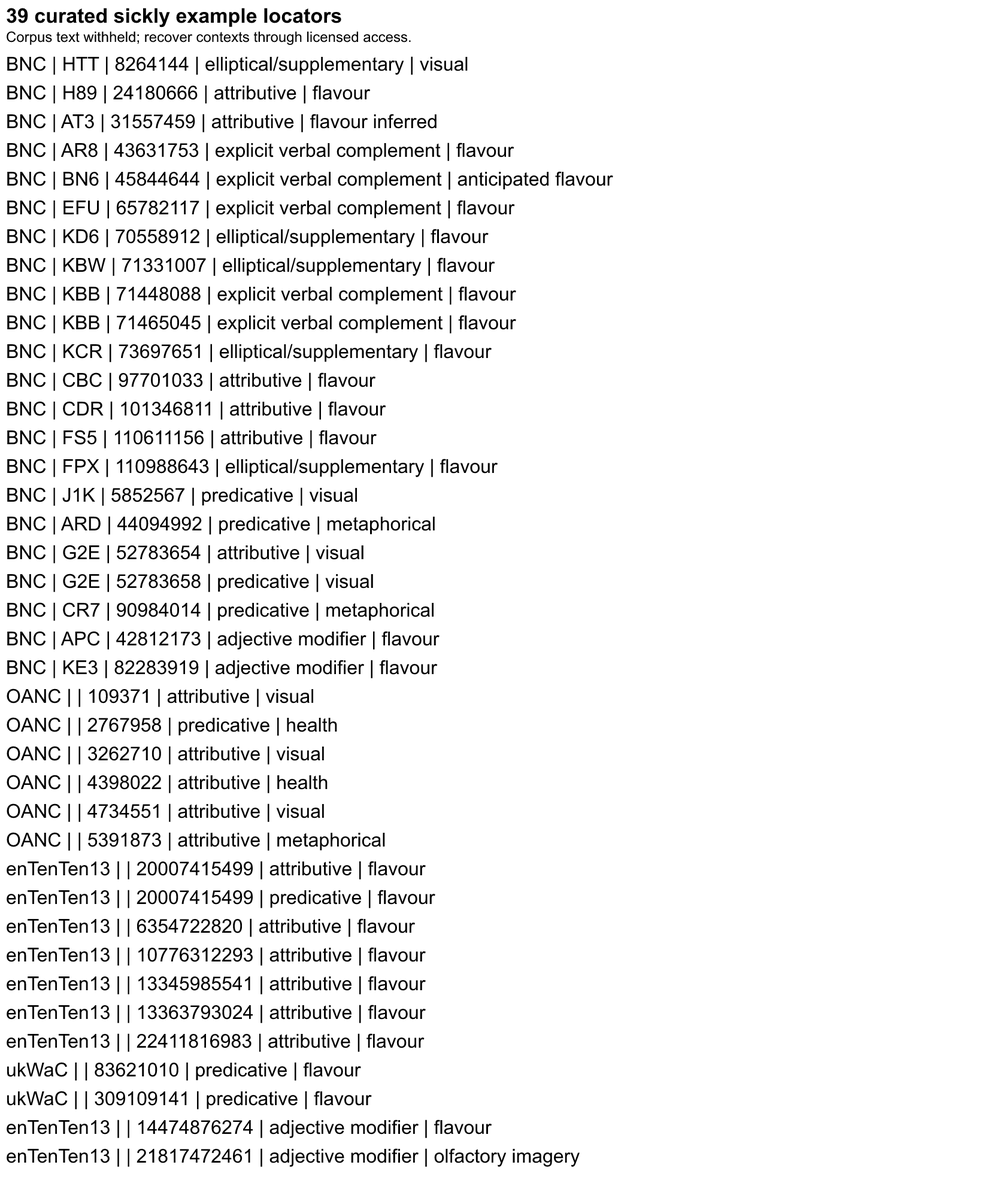
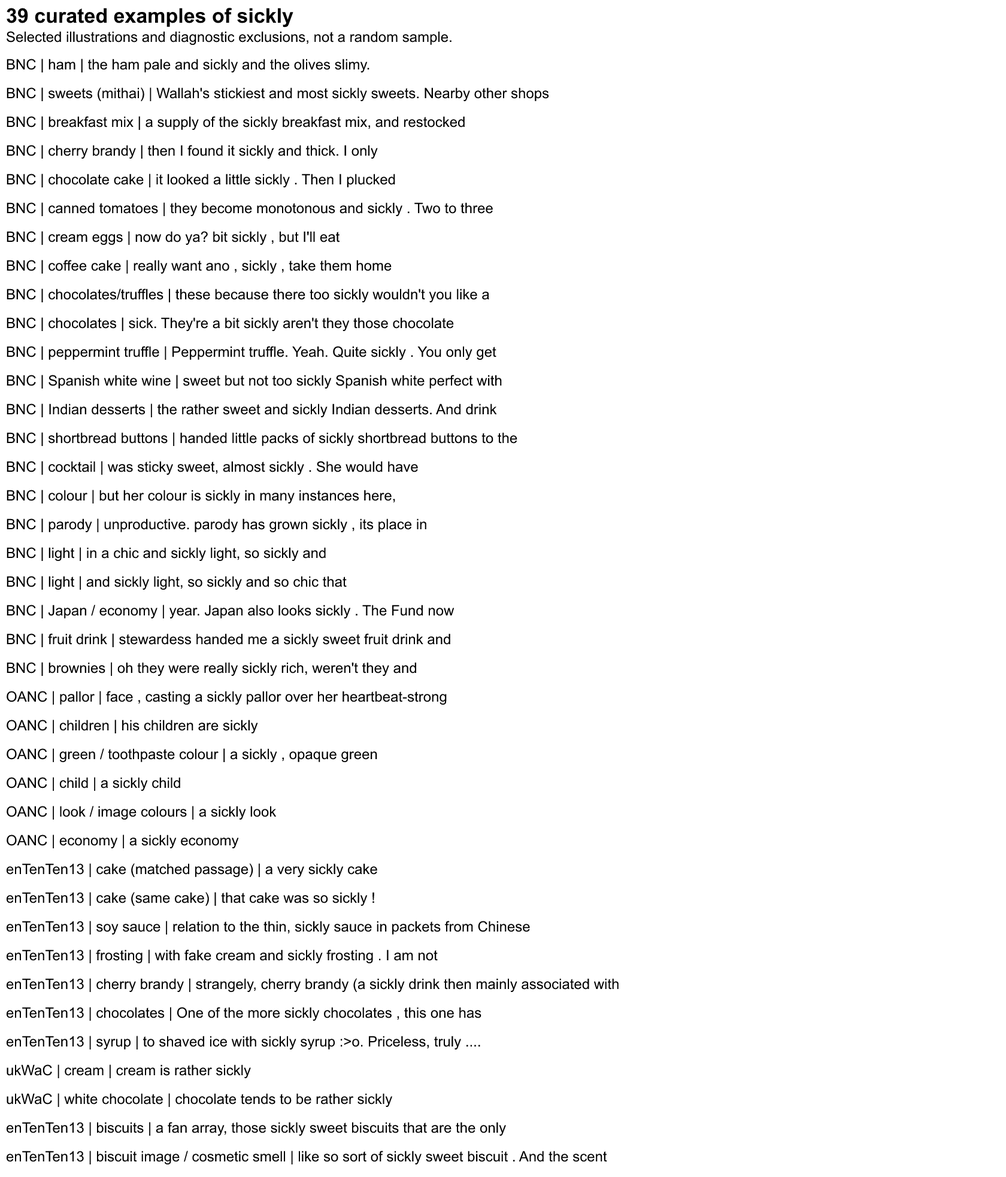
Show the curated corpus lines in the sickly snack again
Quoting concordance lines in a research report is normal practice in
linguistics (Dominik, 20 Nov 2026). Restores the 39-row KWIC table and
the quoted examples; data and method links stay on GitHub.

Changed region(s): [[0.0, 0.0, 0.5881, 0.9929], [0.5571, 0.1241, 0.5881, 0.1551]]

diff --git a/entries/2026-11-17-can-a-cake-be-sickly/charts/2-sickly-kwic.html b/entries/2026-11-17-can-a-cake-be-sickly/charts/2-sickly-kwic.html
@@ -1,66 +1,66 @@
 <div id="sickly-kwic" class="sickly-kwic">
 <style>
-.sickly-kwic{font-size:16px;color:#1d2433;color-scheme:light}.sickly-kwic table{color:inherit}.sickly-kwic a{color:#17618b}.sickly-kwic .controls{display:flex;gap:.8rem;flex-wrap:wrap;align-items:end;margin-block:1rem}
+.sickly-kwic{font-size:.85rem;color:#1d2433;color-scheme:light}.sickly-kwic table{color:inherit}.sickly-kwic a{color:#17618b}.sickly-kwic .controls{display:flex;gap:.8rem;flex-wrap:wrap;align-items:end;margin-block:1rem}
 .sickly-kwic .controls[hidden]{display:none}.sickly-kwic label{display:grid;gap:.25rem}.sickly-kwic input,.sickly-kwic select,.sickly-kwic button{font:inherit;color:inherit;background:transparent;border:1px solid #888;border-radius:4px;padding:.35rem .5rem}
-.sickly-kwic .scroll{overflow:auto;border:1px solid #888}.sickly-kwic table{margin:0;width:auto;max-width:100%}
+.sickly-kwic .scroll{max-height:28rem;overflow:auto;border:1px solid #888}.sickly-kwic table{margin:0;min-width:64rem;width:100%}
 .sickly-kwic th{position:sticky;top:0;background:Canvas;z-index:1}.sickly-kwic th button{border:0;font-weight:600;cursor:pointer}
 .sickly-kwic td{vertical-align:top}.sickly-kwic td:nth-child(5){min-width:17rem}.sickly-kwic td:last-child{max-width:20rem;overflow-wrap:anywhere}
 .sickly-kwic :focus-visible{outline:2px solid #2679a4;outline-offset:2px}.sickly-kwic tr[hidden]{display:none}
 @media print{.sickly-kwic .scroll{max-height:none;overflow:visible}.sickly-kwic table{min-width:0;font-size:.65rem}.sickly-kwic .controls{display:none}}
 </style>
 <div class="controls" hidden>
-<label>Search all columns<input type="search" id="sickly-search" placeholder="Try sole, visual or BNC"></label>
+<label>Search all columns<input type="search" id="sickly-search" placeholder="Try chocolate, sole or visual"></label>
 <label>Corpus<select id="sickly-corpus"><option value="">All corpora</option><option>BNC</option><option>OANC</option><option>enTenTen13</option><option>ukWaC</option></select></label>
 <button type="button" id="sickly-export">Export visible CSV</button>
 </div>
 <p id="sickly-count" role="status" aria-live="polite">39 of 39 examples. Select a heading to sort.</p>
-<div class="scroll" tabindex="0" role="region" aria-label="Sickly example locators">
-<table><caption>Stand-off annotations and source anchors; corpus contexts are withheld.</caption><thead><tr><th scope="col" aria-sort="none"><button type="button" data-sort="0">Corpus</button></th><th scope="col" aria-sort="none"><button type="button" data-sort="1">Document ID</button></th><th scope="col" aria-sort="none"><button type="button" data-sort="2">Token anchor</button></th><th scope="col" aria-sort="none"><button type="button" data-sort="3">Construction</button></th><th scope="col" aria-sort="none"><button type="button" data-sort="4">Coordination</button></th><th scope="col" aria-sort="none"><button type="button" data-sort="5">Reading</button></th></tr></thead><tbody><tr data-corpus="BNC"><td>BNC</td><td>HTT</td><td>8264144</td><td>elliptical/supplementary</td><td>coordinated</td><td>visual</td></tr>
-<tr data-corpus="BNC"><td>BNC</td><td>H89</td><td>24180666</td><td>attributive</td><td>coordinated</td><td>flavour</td></tr>
-<tr data-corpus="BNC"><td>BNC</td><td>AT3</td><td>31557459</td><td>attributive</td><td>sole</td><td>flavour inferred</td></tr>
-<tr data-corpus="BNC"><td>BNC</td><td>AR8</td><td>43631753</td><td>explicit verbal complement</td><td>coordinated</td><td>flavour</td></tr>
-<tr data-corpus="BNC"><td>BNC</td><td>BN6</td><td>45844644</td><td>explicit verbal complement</td><td>sole</td><td>anticipated flavour</td></tr>
-<tr data-corpus="BNC"><td>BNC</td><td>EFU</td><td>65782117</td><td>explicit verbal complement</td><td>coordinated</td><td>flavour</td></tr>
-<tr data-corpus="BNC"><td>BNC</td><td>KD6</td><td>70558912</td><td>elliptical/supplementary</td><td>sole</td><td>flavour</td></tr>
-<tr data-corpus="BNC"><td>BNC</td><td>KBW</td><td>71331007</td><td>elliptical/supplementary</td><td>sole</td><td>flavour</td></tr>
-<tr data-corpus="BNC"><td>BNC</td><td>KBB</td><td>71448088</td><td>explicit verbal complement</td><td>sole</td><td>flavour</td></tr>
-<tr data-corpus="BNC"><td>BNC</td><td>KBB</td><td>71465045</td><td>explicit verbal complement</td><td>sole</td><td>flavour</td></tr>
-<tr data-corpus="BNC"><td>BNC</td><td>KCR</td><td>73697651</td><td>elliptical/supplementary</td><td>sole</td><td>flavour</td></tr>
-<tr data-corpus="BNC"><td>BNC</td><td>CBC</td><td>97701033</td><td>attributive</td><td>coordinated</td><td>flavour</td></tr>
-<tr data-corpus="BNC"><td>BNC</td><td>CDR</td><td>101346811</td><td>attributive</td><td>coordinated</td><td>flavour</td></tr>
-<tr data-corpus="BNC"><td>BNC</td><td>FS5</td><td>110611156</td><td>attributive</td><td>sole</td><td>flavour</td></tr>
-<tr data-corpus="BNC"><td>BNC</td><td>FPX</td><td>110988643</td><td>elliptical/supplementary</td><td>sole</td><td>flavour</td></tr>
-<tr data-corpus="BNC"><td>BNC</td><td>J1K</td><td>5852567</td><td>predicative</td><td>sole</td><td>visual</td></tr>
-<tr data-corpus="BNC"><td>BNC</td><td>ARD</td><td>44094992</td><td>predicative</td><td>sole</td><td>metaphorical</td></tr>
-<tr data-corpus="BNC"><td>BNC</td><td>G2E</td><td>52783654</td><td>attributive</td><td>coordinated</td><td>visual</td></tr>
-<tr data-corpus="BNC"><td>BNC</td><td>G2E</td><td>52783658</td><td>predicative</td><td>coordinated</td><td>visual</td></tr>
-<tr data-corpus="BNC"><td>BNC</td><td>CR7</td><td>90984014</td><td>predicative</td><td>sole</td><td>metaphorical</td></tr>
-<tr data-corpus="BNC"><td>BNC</td><td>APC</td><td>42812173</td><td>adjective modifier</td><td>uncoordinated</td><td>flavour</td></tr>
-<tr data-corpus="BNC"><td>BNC</td><td>KE3</td><td>82283919</td><td>adjective modifier</td><td>uncoordinated</td><td>flavour</td></tr>
-<tr data-corpus="OANC"><td>OANC</td><td></td><td>109371</td><td>attributive</td><td>sole</td><td>visual</td></tr>
-<tr data-corpus="OANC"><td>OANC</td><td></td><td>2767958</td><td>predicative</td><td>sole</td><td>health</td></tr>
-<tr data-corpus="OANC"><td>OANC</td><td></td><td>3262710</td><td>attributive</td><td>asyndetic / juxtaposed</td><td>visual</td></tr>
-<tr data-corpus="OANC"><td>OANC</td><td></td><td>4398022</td><td>attributive</td><td>sole</td><td>health</td></tr>
-<tr data-corpus="OANC"><td>OANC</td><td></td><td>4734551</td><td>attributive</td><td>sole</td><td>visual</td></tr>
-<tr data-corpus="OANC"><td>OANC</td><td></td><td>5391873</td><td>attributive</td><td>sole</td><td>metaphorical</td></tr>
-<tr data-corpus="enTenTen13"><td>enTenTen13</td><td></td><td>20007415499</td><td>attributive</td><td>sole</td><td>flavour</td></tr>
-<tr data-corpus="enTenTen13"><td>enTenTen13</td><td></td><td>20007415499</td><td>predicative</td><td>sole</td><td>flavour</td></tr>
-<tr data-corpus="enTenTen13"><td>enTenTen13</td><td></td><td>6354722820</td><td>attributive</td><td>asyndetic / juxtaposed</td><td>flavour</td></tr>
-<tr data-corpus="enTenTen13"><td>enTenTen13</td><td></td><td>10776312293</td><td>attributive</td><td>sole</td><td>flavour</td></tr>
-<tr data-corpus="enTenTen13"><td>enTenTen13</td><td></td><td>13345985541</td><td>attributive</td><td>sole</td><td>flavour</td></tr>
-<tr data-corpus="enTenTen13"><td>enTenTen13</td><td></td><td>13363793024</td><td>attributive</td><td>sole</td><td>flavour</td></tr>
-<tr data-corpus="enTenTen13"><td>enTenTen13</td><td></td><td>22411816983</td><td>attributive</td><td>sole</td><td>flavour</td></tr>
-<tr data-corpus="ukWaC"><td>ukWaC</td><td></td><td>83621010</td><td>predicative</td><td>sole</td><td>flavour</td></tr>
-<tr data-corpus="ukWaC"><td>ukWaC</td><td></td><td>309109141</td><td>predicative</td><td>sole</td><td>flavour</td></tr>
-<tr data-corpus="enTenTen13"><td>enTenTen13</td><td></td><td>14474876274</td><td>adjective modifier</td><td>uncoordinated</td><td>flavour</td></tr>
-<tr data-corpus="enTenTen13"><td>enTenTen13</td><td></td><td>21817472461</td><td>adjective modifier</td><td>uncoordinated</td><td>olfactory imagery</td></tr></tbody></table>
+<div class="scroll" tabindex="0" role="region" aria-label="Sickly examples: scroll horizontally for context and source">
+<table><caption>Curated examples; spelling and source anchors follow the original report.</caption><thead><tr><th scope="col" aria-sort="none"><button type="button" data-sort="0">Corpus</button></th><th scope="col" aria-sort="none"><button type="button" data-sort="1">Referent</button></th><th scope="col" aria-sort="none"><button type="button" data-sort="2">Construction</button></th><th scope="col" aria-sort="none"><button type="button" data-sort="3">Coordination</button></th><th scope="col" aria-sort="none"><button type="button" data-sort="4">Context</button></th><th scope="col" aria-sort="none"><button type="button" data-sort="5">Reading</button></th><th scope="col" aria-sort="none"><button type="button" data-sort="6">Source and anchor</button></th></tr></thead><tbody><tr data-corpus="BNC"><td>BNC</td><td>ham</td><td>elliptical/supplementary</td><td>coordinated</td><td>the ham pale and <strong>sickly</strong> and the olives slimy.</td><td>visual</td><td>bncdoc.id=HTT; David Lee&#x27;s classification=W_fict_prose; bncdoc.title=Ratking.<br>Anchor: 8264144</td></tr>
+<tr data-corpus="BNC"><td>BNC</td><td>sweets (mithai)</td><td>attributive</td><td>coordinated</td><td>Wallah&#x27;s stickiest and most <strong>sickly</strong> sweets. Nearby other shops</td><td>flavour</td><td>bncdoc.id=H89; David Lee&#x27;s classification=W_misc; bncdoc.title=City of djinns.<br>Anchor: 24180666</td></tr>
+<tr data-corpus="BNC"><td>BNC</td><td>breakfast mix</td><td>attributive</td><td>sole</td><td>a supply of the <strong>sickly</strong> breakfast mix, and restocked</td><td>flavour inferred</td><td>bncdoc.id=AT3; David Lee&#x27;s classification=W_misc; bncdoc.title=Wheelbarrow across the Sahara.<br>Anchor: 31557459</td></tr>
+<tr data-corpus="BNC"><td>BNC</td><td>cherry brandy</td><td>explicit verbal complement</td><td>coordinated</td><td>then I found it <strong>sickly</strong> and thick. I only</td><td>flavour</td><td>bncdoc.id=AR8; David Lee&#x27;s classification=W_non_ac_polit_law_edu; bncdoc.title=The SAS at war 1941-1945.<br>Anchor: 43631753</td></tr>
+<tr data-corpus="BNC"><td>BNC</td><td>chocolate cake</td><td>explicit verbal complement</td><td>sole</td><td>it looked a little <strong>sickly</strong> . Then I plucked</td><td>anticipated flavour</td><td>bncdoc.id=BN6; David Lee&#x27;s classification=W_biography; bncdoc.title=Seasons of my life.<br>Anchor: 45844644</td></tr>
+<tr data-corpus="BNC"><td>BNC</td><td>canned tomatoes</td><td>explicit verbal complement</td><td>coordinated</td><td>they become monotonous and <strong>sickly</strong> . Two to three</td><td>flavour</td><td>bncdoc.id=EFU; David Lee&#x27;s classification=W_misc; bncdoc.title=An omelette and a glass of wine.<br>Anchor: 65782117</td></tr>
+<tr data-corpus="BNC"><td>BNC</td><td>cream eggs</td><td>elliptical/supplementary</td><td>sole</td><td>now do ya? bit <strong>sickly</strong> , but I&#x27;ll eat</td><td>flavour</td><td>bncdoc.id=KD6; David Lee&#x27;s classification=S_conv; bncdoc.title====NONE===<br>Anchor: 70558912</td></tr>
+<tr data-corpus="BNC"><td>BNC</td><td>coffee cake</td><td>elliptical/supplementary</td><td>sole</td><td>really want ano , <strong>sickly</strong> , take them home</td><td>flavour</td><td>bncdoc.id=KBW; David Lee&#x27;s classification=S_conv; bncdoc.title====NONE===<br>Anchor: 71331007</td></tr>
+<tr data-corpus="BNC"><td>BNC</td><td>chocolates/truffles</td><td>explicit verbal complement</td><td>sole</td><td>these because there too <strong>sickly</strong> wouldn&#x27;t you like a</td><td>flavour</td><td>bncdoc.id=KBB; David Lee&#x27;s classification=S_conv; bncdoc.title====NONE===<br>Anchor: 71448088</td></tr>
+<tr data-corpus="BNC"><td>BNC</td><td>chocolates</td><td>explicit verbal complement</td><td>sole</td><td>sick. They&#x27;re a bit <strong>sickly</strong> aren&#x27;t they those chocolate</td><td>flavour</td><td>bncdoc.id=KBB; David Lee&#x27;s classification=S_conv; bncdoc.title====NONE===<br>Anchor: 71465045</td></tr>
+<tr data-corpus="BNC"><td>BNC</td><td>peppermint truffle</td><td>elliptical/supplementary</td><td>sole</td><td>Peppermint truffle. Yeah. Quite <strong>sickly</strong> . You only get</td><td>flavour</td><td>bncdoc.id=KCR; David Lee&#x27;s classification=S_conv; bncdoc.title====NONE===<br>Anchor: 73697651</td></tr>
+<tr data-corpus="BNC"><td>BNC</td><td>Spanish white wine</td><td>attributive</td><td>coordinated</td><td>sweet but not too <strong>sickly</strong> Spanish white perfect with</td><td>flavour</td><td>bncdoc.id=CBC; David Lee&#x27;s classification=W_newsp_other_social; bncdoc.title=Today.<br>Anchor: 97701033</td></tr>
+<tr data-corpus="BNC"><td>BNC</td><td>Indian desserts</td><td>attributive</td><td>coordinated</td><td>the rather sweet and <strong>sickly</strong> Indian desserts. And drink</td><td>flavour</td><td>bncdoc.id=CDR; David Lee&#x27;s classification=W_misc; bncdoc.title=Total health and fitness.<br>Anchor: 101346811</td></tr>
+<tr data-corpus="BNC"><td>BNC</td><td>shortbread buttons</td><td>attributive</td><td>sole</td><td>handed little packs of <strong>sickly</strong> shortbread buttons to the</td><td>flavour</td><td>bncdoc.id=FS5; David Lee&#x27;s classification=W_fict_poetry; bncdoc.title=Sky ray lolly.<br>Anchor: 110611156</td></tr>
+<tr data-corpus="BNC"><td>BNC</td><td>cocktail</td><td>elliptical/supplementary</td><td>sole</td><td>was sticky sweet, almost <strong>sickly</strong> . She would have</td><td>flavour</td><td>bncdoc.id=FPX; David Lee&#x27;s classification=W_fict_prose; bncdoc.title=War in high heels.<br>Anchor: 110988643</td></tr>
+<tr data-corpus="BNC"><td>BNC</td><td>colour</td><td>predicative</td><td>sole</td><td>but her colour is <strong>sickly</strong> in many instances here,</td><td>visual</td><td>bncdoc.id=J1K; David Lee&#x27;s classification=W_misc; bncdoc.title=Women&#x27;s Art.<br>Anchor: 5852567</td></tr>
+<tr data-corpus="BNC"><td>BNC</td><td>parody</td><td>predicative</td><td>sole</td><td>unproductive. parody has grown <strong>sickly</strong> , its place in</td><td>metaphorical</td><td>bncdoc.id=ARD; David Lee&#x27;s classification=W_ac_humanities_arts; bncdoc.title=Screen.<br>Anchor: 44094992</td></tr>
+<tr data-corpus="BNC"><td>BNC</td><td>light</td><td>attributive</td><td>coordinated</td><td>in a chic and <strong>sickly</strong> light, so sickly and</td><td>visual</td><td>bncdoc.id=G2E; David Lee&#x27;s classification=W_pop_lore; bncdoc.title=Harpers &amp; Queen.<br>Anchor: 52783654</td></tr>
+<tr data-corpus="BNC"><td>BNC</td><td>light</td><td>predicative</td><td>coordinated</td><td>and sickly light, so <strong>sickly</strong> and so chic that</td><td>visual</td><td>bncdoc.id=G2E; David Lee&#x27;s classification=W_pop_lore; bncdoc.title=Harpers &amp; Queen.<br>Anchor: 52783658</td></tr>
+<tr data-corpus="BNC"><td>BNC</td><td>Japan / economy</td><td>predicative</td><td>sole</td><td>year. Japan also looks <strong>sickly</strong> . The Fund now</td><td>metaphorical</td><td>bncdoc.id=CR7; David Lee&#x27;s classification=W_pop_lore; bncdoc.title=The Economist.<br>Anchor: 90984014</td></tr>
+<tr data-corpus="BNC"><td>BNC</td><td>fruit drink</td><td>adjective modifier</td><td>uncoordinated</td><td>stewardess handed me a <strong>sickly</strong> sweet fruit drink and</td><td>flavour</td><td>bncdoc.id=APC; David Lee&#x27;s classification=W_misc; bncdoc.title=In the palace of serpents.<br>Anchor: 42812173</td></tr>
+<tr data-corpus="BNC"><td>BNC</td><td>brownies</td><td>adjective modifier</td><td>uncoordinated</td><td>oh they were really <strong>sickly</strong> rich, weren&#x27;t they and</td><td>flavour</td><td>bncdoc.id=KE3; David Lee&#x27;s classification=S_conv; bncdoc.title====NONE===<br>Anchor: 82283919</td></tr>
+<tr data-corpus="OANC"><td>OANC</td><td>pallor</td><td>attributive</td><td>sole</td><td>face , casting a <strong>sickly</strong> pallor over her heartbeat-strong</td><td>visual</td><td>Domain=fiction; Corpus=masc<br>Anchor: 109371</td></tr>
+<tr data-corpus="OANC"><td>OANC</td><td>children</td><td>predicative</td><td>sole</td><td>his children are <strong>sickly</strong> </td><td>health</td><td>Domain=journal; Corpus=oanc<br>Anchor: 2767958</td></tr>
+<tr data-corpus="OANC"><td>OANC</td><td>green / toothpaste colour</td><td>attributive</td><td>asyndetic / juxtaposed</td><td>a <strong>sickly</strong> , opaque green</td><td>visual</td><td>Domain=journal; Corpus=oanc<br>Anchor: 3262710</td></tr>
+<tr data-corpus="OANC"><td>OANC</td><td>child</td><td>attributive</td><td>sole</td><td>a <strong>sickly</strong> child</td><td>health</td><td>Domain=journal; Corpus=oanc<br>Anchor: 4398022</td></tr>
+<tr data-corpus="OANC"><td>OANC</td><td>look / image colours</td><td>attributive</td><td>sole</td><td>a <strong>sickly</strong> look</td><td>visual</td><td>Domain=journal; Corpus=oanc<br>Anchor: 4734551</td></tr>
+<tr data-corpus="OANC"><td>OANC</td><td>economy</td><td>attributive</td><td>sole</td><td>a <strong>sickly</strong> economy</td><td>metaphorical</td><td>Domain=journal; Corpus=oanc<br>Anchor: 5391873</td></tr>
+<tr data-corpus="enTenTen13"><td>enTenTen13</td><td>cake (matched passage)</td><td>attributive</td><td>sole</td><td>a very <strong>sickly cake</strong> </td><td>flavour</td><td>url=<a href="http://www.culturecompass.co.uk/2011/10/29/interview-with-oh-my/">http://www.culturecompass.co.uk/2011/10/29/interview-with-oh-my/</a><br>Anchor: 20007415499</td></tr>
+<tr data-corpus="enTenTen13"><td>enTenTen13</td><td>cake (same cake)</td><td>predicative</td><td>sole</td><td>that cake was so <strong>sickly</strong> !</td><td>flavour</td><td>url=<a href="http://www.culturecompass.co.uk/2011/10/29/interview-with-oh-my/">http://www.culturecompass.co.uk/2011/10/29/interview-with-oh-my/</a><br>Anchor: 20007415499</td></tr>
+<tr data-corpus="enTenTen13"><td>enTenTen13</td><td>soy sauce</td><td>attributive</td><td>asyndetic / juxtaposed</td><td>relation to the thin, <strong>sickly sauce</strong> in packets from Chinese</td><td>flavour</td><td>url=<a href="http://thenibble.com/REVIEWS/main/salts/gourmet-soy-sauce.asp">http://thenibble.com/REVIEWS/main/salts/gourmet-soy-sauce.asp</a><br>Anchor: 6354722820</td></tr>
+<tr data-corpus="enTenTen13"><td>enTenTen13</td><td>frosting</td><td>attributive</td><td>sole</td><td>with fake cream and <strong>sickly frosting</strong> . I am not</td><td>flavour</td><td>url=<a href="http://www.cruisecritic.com/memberreviews/memberreview.cfm?EntryID=228663">http://www.cruisecritic.com/memberreviews/memberreview.cfm?EntryID=228663</a><br>Anchor: 10776312293</td></tr>
+<tr data-corpus="enTenTen13"><td>enTenTen13</td><td>cherry brandy</td><td>attributive</td><td>sole</td><td>strangely, cherry brandy (a <strong>sickly drink</strong> then mainly associated with</td><td>flavour</td><td>url=<a href="http://andrewstuttaford.com/2009/07/17/destination-moon/">http://andrewstuttaford.com/2009/07/17/destination-moon/</a><br>Anchor: 13345985541</td></tr>
+<tr data-corpus="enTenTen13"><td>enTenTen13</td><td>chocolates</td><td>attributive</td><td>sole</td><td>One of the more <strong>sickly chocolates</strong> , this one has</td><td>flavour</td><td>url=<a href="http://www.previousmagazine.com/ultimate-christmas-hamper-hotel-chocolat-review">http://www.previousmagazine.com/ultimate-christmas-hamper-hotel-chocolat-review</a><br>Anchor: 13363793024</td></tr>
+<tr data-corpus="enTenTen13"><td>enTenTen13</td><td>syrup</td><td>attributive</td><td>sole</td><td>to shaved ice with <strong>sickly syrup</strong> :&gt;o. Priceless, truly ....</td><td>flavour</td><td>url=<a href="http://rvthereyet.ca/2006/05/">http://rvthereyet.ca/2006/05/</a><br>Anchor: 22411816983</td></tr>
+<tr data-corpus="ukWaC"><td>ukWaC</td><td>cream</td><td>predicative</td><td>sole</td><td> <strong>cream is rather sickly</strong> </td><td>flavour</td><td>Website (e.g. wikipedia.org)=sch.uk; doc.id=<a href="http://www.woodgreen.oxon.sch.uk/wgs_50/memories_staff_pupil/mr_pooley/diary.htm">http://www.woodgreen.oxon.sch.uk/wgs_50/memories_staff_pupil/mr_pooley/diary.htm</a><br>Anchor: 83621010</td></tr>
+<tr data-corpus="ukWaC"><td>ukWaC</td><td>white chocolate</td><td>predicative</td><td>sole</td><td> <strong>chocolate tends to be rather sickly</strong> </td><td>flavour</td><td>Website (e.g. wikipedia.org)=chocolate.co.uk; doc.id=<a href="http://www.chocolate.co.uk/fact18.php">http://www.chocolate.co.uk/fact18.php</a><br>Anchor: 309109141</td></tr>
+<tr data-corpus="enTenTen13"><td>enTenTen13</td><td>biscuits</td><td>adjective modifier</td><td>uncoordinated</td><td>a fan array, those <strong>sickly sweet biscuits</strong> that are the only</td><td>flavour</td><td>url=<a href="http://www.harikunzru.com/archive/kaltes-klares-wasser-2005">http://www.harikunzru.com/archive/kaltes-klares-wasser-2005</a><br>Anchor: 14474876274</td></tr>
+<tr data-corpus="enTenTen13"><td>enTenTen13</td><td>biscuit image / cosmetic smell</td><td>adjective modifier</td><td>uncoordinated</td><td>like so sort of <strong>sickly sweet biscuit</strong> . And the scent</td><td>olfactory imagery</td><td>url=<a href="http://bittenglam.blogspot.ca/2012/08/review-jergens-natural-glow-daily.html">http://bittenglam.blogspot.ca/2012/08/review-jergens-natural-glow-daily.html</a><br>Anchor: 21817472461</td></tr></tbody></table>
 </div>
-<p><a href="charts/2-sickly-kwic.csv" download>All rows (CSV)</a> · <a href="charts/2-sickly-kwic.vl.json">Vega-Lite version</a> · <a href="https://github.com/techczech/research-snacks-data/blob/main/snacks/2026-11-17-can-a-cake-be-sickly/README.md">Method and licensed reconstruction</a></p>
+<p><a href="charts/2-sickly-kwic.csv" download>All rows (CSV)</a> · <a href="charts/2-sickly-kwic.vl.json">Vega-Lite version</a> · <a href="https://github.com/techczech/research-snacks-data/blob/main/snacks/2026-11-17-can-a-cake-be-sickly/METHOD.md">Method and query settings</a></p>
 <script>
 (function(){
  const root=document.getElementById('sickly-kwic');
  const input=root.querySelector('input'), corpus=root.querySelector('select'), tbody=root.querySelector('tbody');
- const trs=Array.from(tbody.rows), source=[{"example": "1", "corpus": "BNC", "token": "8264144", "document_id": "HTT", "construction": "elliptical/supplementary", "coordination": "coordinated", "reading": "visual"}, {"example": "2", "corpus": "BNC", "token": "24180666", "document_id": "H89", "construction": "attributive", "coordination": "coordinated", "reading": "flavour"}, {"example": "3", "corpus": "BNC", "token": "31557459", "document_id": "AT3", "construction": "attributive", "coordination": "sole", "reading": "flavour inferred"}, {"example": "4", "corpus": "BNC", "token": "43631753", "document_id": "AR8", "construction": "explicit verbal complement", "coordination": "coordinated", "reading": "flavour"}, {"example": "5", "corpus": "BNC", "token": "45844644", "document_id": "BN6", "construction": "explicit verbal complement", "coordination": "sole", "reading": "anticipated flavour"}, {"example": "6", "corpus": "BNC", "token": "65782117", "document_id": "EFU", "construction": "explicit verbal complement", "coordination": "coordinated", "reading": "flavour"}, {"example": "7", "corpus": "BNC", "token": "70558912", "document_id": "KD6", "construction": "elliptical/supplementary", "coordination": "sole", "reading": "flavour"}, {"example": "8", "corpus": "BNC", "token": "71331007", "document_id": "KBW", "construction": "elliptical/supplementary", "coordination": "sole", "reading": "flavour"}, {"example": "9", "corpus": "BNC", "token": "71448088", "document_id": "KBB", "construction": "explicit verbal complement", "coordination": "sole", "reading": "flavour"}, {"example": "10", "corpus": "BNC", "token": "71465045", "document_id": "KBB", "construction": "explicit verbal complement", "coordination": "sole", "reading": "flavour"}, {"example": "11", "corpus": "BNC", "token": "73697651", "document_id": "KCR", "construction": "elliptical/supplementary", "coordination": "sole", "reading": "flavour"}, {"example": "12", "corpus": "BNC", "token": "97701033", "document_id": "CBC", "construction": "attributive", "coordination": "coordinated", "reading": "flavour"}, {"example": "13", "corpus": "BNC", "token": "101346811", "document_id": "CDR", "construction": "attributive", "coordination": "coordinated", "reading": "flavour"}, {"example": "14", "corpus": "BNC", "token": "110611156", "document_id": "FS5", "construction": "attributive", "coordination": "sole", "reading": "flavour"}, {"example": "15", "corpus": "BNC", "token": "110988643", "document_id": "FPX", "construction": "elliptical/supplementary", "coordination": "sole", "reading": "flavour"}, {"example": "16", "corpus": "BNC", "token": "5852567", "document_id": "J1K", "construction": "predicative", "coordination": "sole", "reading": "visual"}, {"example": "17", "corpus": "BNC", "token": "44094992", "document_id": "ARD", "construction": "predicative", "coordination": "sole", "reading": "metaphorical"}, {"example": "18", "corpus": "BNC", "token": "52783654", "document_id": "G2E", "construction": "attributive", "coordination": "coordinated", "reading": "visual"}, {"example": "19", "corpus": "BNC", "token": "52783658", "document_id": "G2E", "construction": "predicative", "coordination": "coordinated", "reading": "visual"}, {"example": "20", "corpus": "BNC", "token": "90984014", "document_id": "CR7", "construction": "predicative", "coordination": "sole", "reading": "metaphorical"}, {"example": "21", "corpus": "BNC", "token": "42812173", "document_id": "APC", "construction": "adjective modifier", "coordination": "uncoordinated", "reading": "flavour"}, {"example": "22", "corpus": "BNC", "token": "82283919", "document_id": "KE3", "construction": "adjective modifier", "coordination": "uncoordinated", "reading": "flavour"}, {"example": "23", "corpus": "OANC", "token": "109371", "document_id": "", "construction": "attributive", "coordination": "sole", "reading": "visual"}, {"example": "24", "corpus": "OANC", "token": "2767958", "document_id": "", "construction": "predicative", "coordination": "sole", "reading": "health"}, {"example": "25", "corpus": "OANC", "token": "3262710", "document_id": "", "construction": "attributive", "coordination": "asyndetic / juxtaposed", "reading": "visual"}, {"example": "26", "corpus": "OANC", "token": "4398022", "document_id": "", "construction": "attributive", "coordination": "sole", "reading": "health"}, {"example": "27", "corpus": "OANC", "token": "4734551", "document_id": "", "construction": "attributive", "coordination": "sole", "reading": "visual"}, {"example": "28", "corpus": "OANC", "token": "5391873", "document_id": "", "construction": "attributive", "coordination": "sole", "reading": "metaphorical"}, {"example": "29", "corpus": "enTenTen13", "token": "20007415499", "document_id": "", "construction": "attributive", "coordination": "sole", "reading": "flavour"}, {"example": "30", "corpus": "enTenTen13", "token": "20007415499", "document_id": "", "construction": "predicative", "coordination": "sole", "reading": "flavour"}, {"example": "31", "corpus": "enTenTen13", "token": "6354722820", "document_id": "", "construction": "attributive", "coordination": "asyndetic / juxtaposed", "reading": "flavour"}, {"example": "32", "corpus": "enTenTen13", "token": "10776312293", "document_id": "", "construction": "attributive", "coordination": "sole", "reading": "flavour"}, {"example": "33", "corpus": "enTenTen13", "token": "13345985541", "document_id": "", "construction": "attributive", "coordination": "sole", "reading": "flavour"}, {"example": "34", "corpus": "enTenTen13", "token": "13363793024", "document_id": "", "construction": "attributive", "coordination": "sole", "reading": "flavour"}, {"example": "35", "corpus": "enTenTen13", "token": "22411816983", "document_id": "", "construction": "attributive", "coordination": "sole", "reading": "flavour"}, {"example": "36", "corpus": "ukWaC", "token": "83621010", "document_id": "", "construction": "predicative", "coordination": "sole", "reading": "flavour"}, {"example": "37", "corpus": "ukWaC", "token": "309109141", "document_id": "", "construction": "predicative", "coordination": "sole", "reading": "flavour"}, {"example": "38", "corpus": "enTenTen13", "token": "14474876274", "document_id": "", "construction": "adjective modifier", "coordination": "uncoordinated", "reading": "flavour"}, {"example": "39", "corpus": "enTenTen13", "token": "21817472461", "document_id": "", "construction": "adjective modifier", "coordination": "uncoordinated", "reading": "olfactory imagery"}];
+ const trs=Array.from(tbody.rows), source=[{"corpus": "BNC", "referent": "ham", "construction": "elliptical/supplementary", "coordination": "coordinated", "reading": "visual", "left": "the ham pale and", "node": "sickly", "right": "and the olives slimy.", "reference": "bncdoc.id=HTT; David Lee's classification=W_fict_prose; bncdoc.title=Ratking.", "token": 8264144}, {"corpus": "BNC", "referent": "sweets (mithai)", "construction": "attributive", "coordination": "coordinated", "reading": "flavour", "left": "Wallah's stickiest and most", "node": "sickly", "right": "sweets. Nearby other shops", "reference": "bncdoc.id=H89; David Lee's classification=W_misc; bncdoc.title=City of djinns.", "token": 24180666}, {"corpus": "BNC", "referent": "breakfast mix", "construction": "attributive", "coordination": "sole", "reading": "flavour inferred", "left": "a supply of the", "node": "sickly", "right": "breakfast mix, and restocked", "reference": "bncdoc.id=AT3; David Lee's classification=W_misc; bncdoc.title=Wheelbarrow across the Sahara.", "token": 31557459}, {"corpus": "BNC", "referent": "cherry brandy", "construction": "explicit verbal complement", "coordination": "coordinated", "reading": "flavour", "left": "then I found it", "node": "sickly", "right": "and thick. I only", "reference": "bncdoc.id=AR8; David Lee's classification=W_non_ac_polit_law_edu; bncdoc.title=The SAS at war 1941-1945.", "token": 43631753}, {"corpus": "BNC", "referent": "chocolate cake", "construction": "explicit verbal complement", "coordination": "sole", "reading": "anticipated flavour", "left": "it looked a little", "node": "sickly", "right": ". Then I plucked", "reference": "bncdoc.id=BN6; David Lee's classification=W_biography; bncdoc.title=Seasons of my life.", "token": 45844644}, {"corpus": "BNC", "referent": "canned tomatoes", "construction": "explicit verbal complement", "coordination": "coordinated", "reading": "flavour", "left": "they become monotonous and", "node": "sickly", "right": ". Two to three", "reference": "bncdoc.id=EFU; David Lee's classification=W_misc; bncdoc.title=An omelette and a glass of wine.", "token": 65782117}, {"corpus": "BNC", "referent": "cream eggs", "construction": "elliptical/supplementary", "coordination": "sole", "reading": "flavour", "left": "now do ya? bit", "node": "sickly", "right": ", but I'll eat", "reference": "bncdoc.id=KD6; David Lee's classification=S_conv; bncdoc.title====NONE===", "token": 70558912}, {"corpus": "BNC", "referent": "coffee cake", "construction": "elliptical/supplementary", "coordination": "sole", "reading": "flavour", "left": "really want ano ,", "node": "sickly", "right": ", take them home", "reference": "bncdoc.id=KBW; David Lee's classification=S_conv; bncdoc.title====NONE===", "token": 71331007}, {"corpus": "BNC", "referent": "chocolates/truffles", "construction": "explicit verbal complement", "coordination": "sole", "reading": "flavour", "left": "these because there too", "node": "sickly", "right": "wouldn't you like a", "reference": "bncdoc.id=KBB; David Lee's classification=S_conv; bncdoc.title====NONE===", "token": 71448088}, {"corpus": "BNC", "referent": "chocolates", "construction": "explicit verbal complement", "coordination": "sole", "reading": "flavour", "left": "sick. They're a bit", "node": "sickly", "right": "aren't they those chocolate", "reference": "bncdoc.id=KBB; David Lee's classification=S_conv; bncdoc.title====NONE===", "token": 71465045}, {"corpus": "BNC", "referent": "peppermint truffle", "construction": "elliptical/supplementary", "coordination": "sole", "reading": "flavour", "left": "Peppermint truffle. Yeah. Quite", "node": "sickly", "right": ". You only get", "reference": "bncdoc.id=KCR; David Lee's classification=S_conv; bncdoc.title====NONE===", "token": 73697651}, {"corpus": "BNC", "referent": "Spanish white wine", "construction": "attributive", "coordination": "coordinated", "reading": "flavour", "left": "sweet but not too", "node": "sickly", "right": "Spanish white perfect with", "reference": "bncdoc.id=CBC; David Lee's classification=W_newsp_other_social; bncdoc.title=Today.", "token": 97701033}, {"corpus": "BNC", "referent": "Indian desserts", "construction": "attributive", "coordination": "coordinated", "reading": "flavour", "left": "the rather sweet and", "node": "sickly", "right": "Indian desserts. And drink", "reference": "bncdoc.id=CDR; David Lee's classification=W_misc; bncdoc.title=Total health and fitness.", "token": 101346811}, {"corpus": "BNC", "referent": "shortbread buttons", "construction": "attributive", "coordination": "sole", "reading": "flavour", "left": "handed little packs of", "node": "sickly", "right": "shortbread buttons to the", "reference": "bncdoc.id=FS5; David Lee's classification=W_fict_poetry; bncdoc.title=Sky ray lolly.", "token": 110611156}, {"corpus": "BNC", "referent": "cocktail", "construction": "elliptical/supplementary", "coordination": "sole", "reading": "flavour", "left": "was sticky sweet, almost", "node": "sickly", "right": ". She would have", "reference": "bncdoc.id=FPX; David Lee's classification=W_fict_prose; bncdoc.title=War in high heels.", "token": 110988643}, {"corpus": "BNC", "referent": "colour", "construction": "predicative", "coordination": "sole", "reading": "visual", "left": "but her colour is", "node": "sickly", "right": "in many instances here,", "reference": "bncdoc.id=J1K; David Lee's classification=W_misc; bncdoc.title=Women's Art.", "token": 5852567}, {"corpus": "BNC", "referent": "parody", "construction": "predicative", "coordination": "sole", "reading": "metaphorical", "left": "unproductive. parody has grown", "node": "sickly", "right": ", its place in", "reference": "bncdoc.id=ARD; David Lee's classification=W_ac_humanities_arts; bncdoc.title=Screen.", "token": 44094992}, {"corpus": "BNC", "referent": "light", "construction": "attributive", "coordination": "coordinated", "reading": "visual", "left": "in a chic and", "node": "sickly", "right": "light, so sickly and", "reference": "bncdoc.id=G2E; David Lee's classification=W_pop_lore; bncdoc.title=Harpers & Queen.", "token": 52783654}, {"corpus": "BNC", "referent": "light", "construction": "predicative", "coordination": "coordinated", "reading": "visual", "left": "and sickly light, so", "node": "sickly", "right": "and so chic that", "reference": "bncdoc.id=G2E; David Lee's classification=W_pop_lore; bncdoc.title=Harpers & Queen.", "token": 52783658}, {"corpus": "BNC", "referent": "Japan / economy", "construction": "predicative", "coordination": "sole", "reading": "metaphorical", "left": "year. Japan also looks", "node": "sickly", "right": ". The Fund now", "reference": "bncdoc.id=CR7; David Lee's classification=W_pop_lore; bncdoc.title=The Economist.", "token": 90984014}, {"corpus": "BNC", "referent": "fruit drink", "construction": "adjective modifier", "coordination": "uncoordinated", "reading": "flavour", "left": "stewardess handed me a", "node": "sickly", "right": "sweet fruit drink and", "reference": "bncdoc.id=APC; David Lee's classification=W_misc; bncdoc.title=In the palace of serpents.", "token": 42812173}, {"corpus": "BNC", "referent": "brownies", "construction": "adjective modifier", "coordination": "uncoordinated", "reading": "flavour", "left": "oh they were really", "node": "sickly", "right": "rich, weren't they and", "reference": "bncdoc.id=KE3; David Lee's classification=S_conv; bncdoc.title====NONE===", "token": 82283919}, {"corpus": "OANC", "referent": "pallor", "construction": "attributive", "coordination": "sole", "reading": "visual", "left": "face , casting a", "node": "sickly", "right": "pallor over her heartbeat-strong", "reference": "Domain=fiction; Corpus=masc", "token": 109371}, {"corpus": "OANC", "referent": "children", "construction": "predicative", "coordination": "sole", "reading": "health", "left": "his children are", "node": "sickly", "right": "", "reference": "Domain=journal; Corpus=oanc", "token": 2767958}, {"corpus": "OANC", "referent": "green / toothpaste colour", "construction": "attributive", "coordination": "asyndetic / juxtaposed", "reading": "visual", "left": "a", "node": "sickly", "right": ", opaque green", "reference": "Domain=journal; Corpus=oanc", "token": 3262710}, {"corpus": "OANC", "referent": "child", "construction": "attributive", "coordination": "sole", "reading": "health", "left": "a", "node": "sickly", "right": "child", "reference": "Domain=journal; Corpus=oanc", "token": 4398022}, {"corpus": "OANC", "referent": "look / image colours", "construction": "attributive", "coordination": "sole", "reading": "visual", "left": "a", "node": "sickly", "right": "look", "reference": "Domain=journal; Corpus=oanc", "token": 4734551}, {"corpus": "OANC", "referent": "economy", "construction": "attributive", "coordination": "sole", "reading": "metaphorical", "left": "a", "node": "sickly", "right": "economy", "reference": "Domain=journal; Corpus=oanc", "token": 5391873}, {"corpus": "enTenTen13", "referent": "cake (matched passage)", "construction": "attributive", "coordination": "sole", "reading": "flavour", "left": "a very", "node": "sickly cake", "right": "", "reference": "url=http://www.culturecompass.co.uk/2011/10/29/interview-with-oh-my/", "token": 20007415499}, {"corpus": "enTenTen13", "referent": "cake (same cake)", "construction": "predicative", "coordination": "sole", "reading": "flavour", "left": "that cake was so", "node": "sickly", "right": "!", "reference": "url=http://www.culturecompass.co.uk/2011/10/29/interview-with-oh-my/", "token": 20007415499}, {"corpus": "enTenTen13", "referent": "soy sauce", "construction": "attributive", "coordination": "asyndetic / juxtaposed", "reading": "flavour", "left": "relation to the thin,", "node": "sickly sauce", "right": "in packets from Chinese", "reference": "url=http://thenibble.com/REVIEWS/main/salts/gourmet-soy-sauce.asp", "token": 6354722820}, {"corpus": "enTenTen13", "referent": "frosting", "construction": "attributive", "coordination": "sole", "reading": "flavour", "left": "with fake cream and", "node": "sickly frosting", "right": ". I am not", "reference": "url=http://www.cruisecritic.com/memberreviews/memberreview.cfm?EntryID=228663", "token": 10776312293}, {"corpus": "enTenTen13", "referent": "cherry brandy", "construction": "attributive", "coordination": "sole", "reading": "flavour", "left": "strangely, cherry brandy (a", "node": "sickly drink", "right": "then mainly associated with", "reference": "url=http://andrewstuttaford.com/2009/07/17/destination-moon/", "token": 13345985541}, {"corpus": "enTenTen13", "referent": "chocolates", "construction": "attributive", "coordination": "sole", "reading": "flavour", "left": "One of the more", "node": "sickly chocolates", "right": ", this one has", "reference": "url=http://www.previousmagazine.com/ultimate-christmas-hamper-hotel-chocolat-review", "token": 13363793024}, {"corpus": "enTenTen13", "referent": "syrup", "construction": "attributive", "coordination": "sole", "reading": "flavour", "left": "to shaved ice with", "node": "sickly syrup", "right": ":>o. Priceless, truly ....", "reference": "url=http://rvthereyet.ca/2006/05/", "token": 22411816983}, {"corpus": "ukWaC", "referent": "cream", "construction": "predicative", "coordination": "sole", "reading": "flavour", "left": "", "node": "cream is rather sickly", "right": "", "reference": "Website (e.g. wikipedia.org)=sch.uk; doc.id=http://www.woodgreen.oxon.sch.uk/wgs_50/memories_staff_pupil/mr_pooley/diary.htm", "token": 83621010}, {"corpus": "ukWaC", "referent": "white chocolate", "construction": "predicative", "coordination": "sole", "reading": "flavour", "left": "", "node": "chocolate tends to be rather sickly", "right": "", "reference": "Website (e.g. wikipedia.org)=chocolate.co.uk; doc.id=http://www.chocolate.co.uk/fact18.php", "token": 309109141}, {"corpus": "enTenTen13", "referent": "biscuits", "construction": "adjective modifier", "coordination": "uncoordinated", "reading": "flavour", "left": "a fan array, those", "node": "sickly sweet biscuits", "right": "that are the only", "reference": "url=http://www.harikunzru.com/archive/kaltes-klares-wasser-2005", "token": 14474876274}, {"corpus": "enTenTen13", "referent": "biscuit image / cosmetic smell", "construction": "adjective modifier", "coordination": "uncoordinated", "reading": "olfactory imagery", "left": "like so sort of", "node": "sickly sweet biscuit", "right": ". And the scent", "reference": "url=http://bittenglam.blogspot.ca/2012/08/review-jergens-natural-glow-daily.html", "token": 21817472461}];
  const records=new Map(trs.map((tr,i)=>[tr,source[i]]));
  root.querySelector('.controls').hidden=false;
  function filter(){const q=input.value.toLocaleLowerCase();let n=0;trs.forEach(tr=>{

diff --git a/tests/research-assets.test.ts b/tests/research-assets.test.ts
@@ -23,11 +23,10 @@ test('research links share one mapping in authored text, HTML and Files lists',(
  expect(redirects).toContain('/2026-11-17-ai-wealth-control-2035/data/claim-source.md / 302\n');
 });
 
-test('the public sickly table contains all 39 stand-off locators without concordance fields',()=>{
+test('the public sickly table shows all 39 curated corpus lines',()=>{
  const text=readFileSync('entries/2026-11-17-can-a-cake-be-sickly/charts/2-sickly-kwic.csv','utf8');
  expect(text.trim().split(/\r?\n/)).toHaveLength(40);
- expect(text.split(/\r?\n/)[0]).toBe('example,corpus,token,document_id,construction,coordination,reading');
+ expect(text.split(/\r?\n/)[0]).toBe('corpus,referent,construction,coordination,reading,left,node,right,reference,token');
  const html=readFileSync('entries/2026-11-17-can-a-cake-be-sickly/charts/2-sickly-kwic.html','utf8');
- expect(html).not.toContain('datum.left');
  expect(html).not.toContain('original-sickly-report.html');
 });

diff --git a/entries/2026-11-17-can-a-cake-be-sickly/index.md b/entries/2026-11-17-can-a-cake-be-sickly/index.md
@@ -88,13 +88,13 @@ The study classified fifteen BNC food and drink examples after reading their wid
 
 ![Selected BNC food and drink cases by construction and coordination; these counts do not estimate population proportions.](charts/1-sickly-food-constructions.png)
 
-The sole attributive cases include breakfast mix and shortbread buttons. Sole predicates include chocolate cake and chocolates. Degree expressions such as *a bit* are not second adjectives. The stand-off annotations identify the cases; their corpus lines are withheld for licensing.
+The sole attributive cases include **“the sickly breakfast mix”** and **“sickly shortbread buttons”**. Sole predicates include a chocolate cake that **“looked a little sickly”** and chocolates described as **“a bit sickly”**. Degree expressions such as *a bit* are not second adjectives.
 
 The verbal-complement row includes object predication, such as finding a drink sickly. Fragments and supplements are separate: their five cases cannot be counted as five full “the food is sickly” clauses.
 
 ### The same cake, in both positions
 
-One supplementary enTenTen13 passage describes a cake attributively and later predicatively with *sickly*. Both descriptions concern the same cake and neither coordinates another adjective. The two stand-off records share the retrieved passage’s anchor, not the later predicate’s own token position. Corpus lines are withheld for licensing; a licensed reader can rebuild the contexts using the [query settings and example locators](https://github.com/techczech/research-snacks-data/blob/main/snacks/2026-11-17-can-a-cake-be-sickly/README.md).
+One supplementary enTenTen13 passage describes **“a very sickly cake”**, followed later by **“that cake was so sickly!”** Both descriptions concern the same cake and neither coordinates another adjective. The [example table](charts/2-sickly-kwic.csv) retains the original web reference; the two rows share the retrieved passage’s anchor, not the later predicate’s own token position.
 
 ## The context determines the reading
 
@@ -106,9 +106,9 @@ Food *sickly* can mean cloying, excessively rich or unpleasantly intense. The se
 
 ### Explore the examples
 
-The table contains the stand-off locators and annotations for all **39 curated examples**, including diagnostic exclusions and supplementary web evidence. Search, filter or sort it, then export the visible rows. Corpus lines are withheld for licensing. A licensed reader can rebuild the contexts using the [corpus versions, query settings and anchors](https://github.com/techczech/research-snacks-data/blob/main/snacks/2026-11-17-can-a-cake-be-sickly/README.md).
+The table contains all **39 curated key-word-in-context (KWIC) rows**, including diagnostic exclusions and supplementary web evidence. Search, filter or sort it, then export the visible rows. The complete table can be downloaded as CSV.
 
-![Locators for the 39 curated sickly examples, with corpus, construction, reading and token anchors; corpus text withheld.](charts/2-sickly-kwic.png)
+![The 39 curated sickly examples, with corpus, construction, reading and source references.](charts/2-sickly-kwic.png)
 
 ## The American evidence is too small
 
@@ -148,7 +148,7 @@ The corpus study was run on **7 October 2026** and repackaged on **17 November 2
 
 The original study retrieved exact-form *sickly*, examined wider contexts, and classified construction, coordination and reading. Sketch Engine supplied concordances, grammatical relations and collocation statistics. The judgement steps were selecting examples and interpreting their syntax and sense. Repackaging preserved those labels and counts; Python grouped the existing food annotations and generated the figure and table. The BNC credit in References is copied verbatim from the provider’s documentation.
 
-The checking repository preserves stand-off food annotations, example locators, aggregate statistics, query settings and the current method. Earlier report drafts, working notes and run records are not distributed. A checksum manifest identifies the original source copies without distributing them. The chart CSV contains exactly the six plotted construction counts; the locator CSV contains all 39 stand-off records without corpus lines.
+The checking repository preserves stand-off food annotations, example locators, aggregate statistics, query settings and the current method. Earlier report drafts, working notes and run records are not distributed. A checksum manifest identifies the original source copies without distributing them. The chart CSV contains exactly the six plotted construction counts; the example table on this page shows the 39 corpus lines; the checking repository's locator CSV identifies the same 39 examples by corpus position.
 
 ### Models, tools and tokens
 
